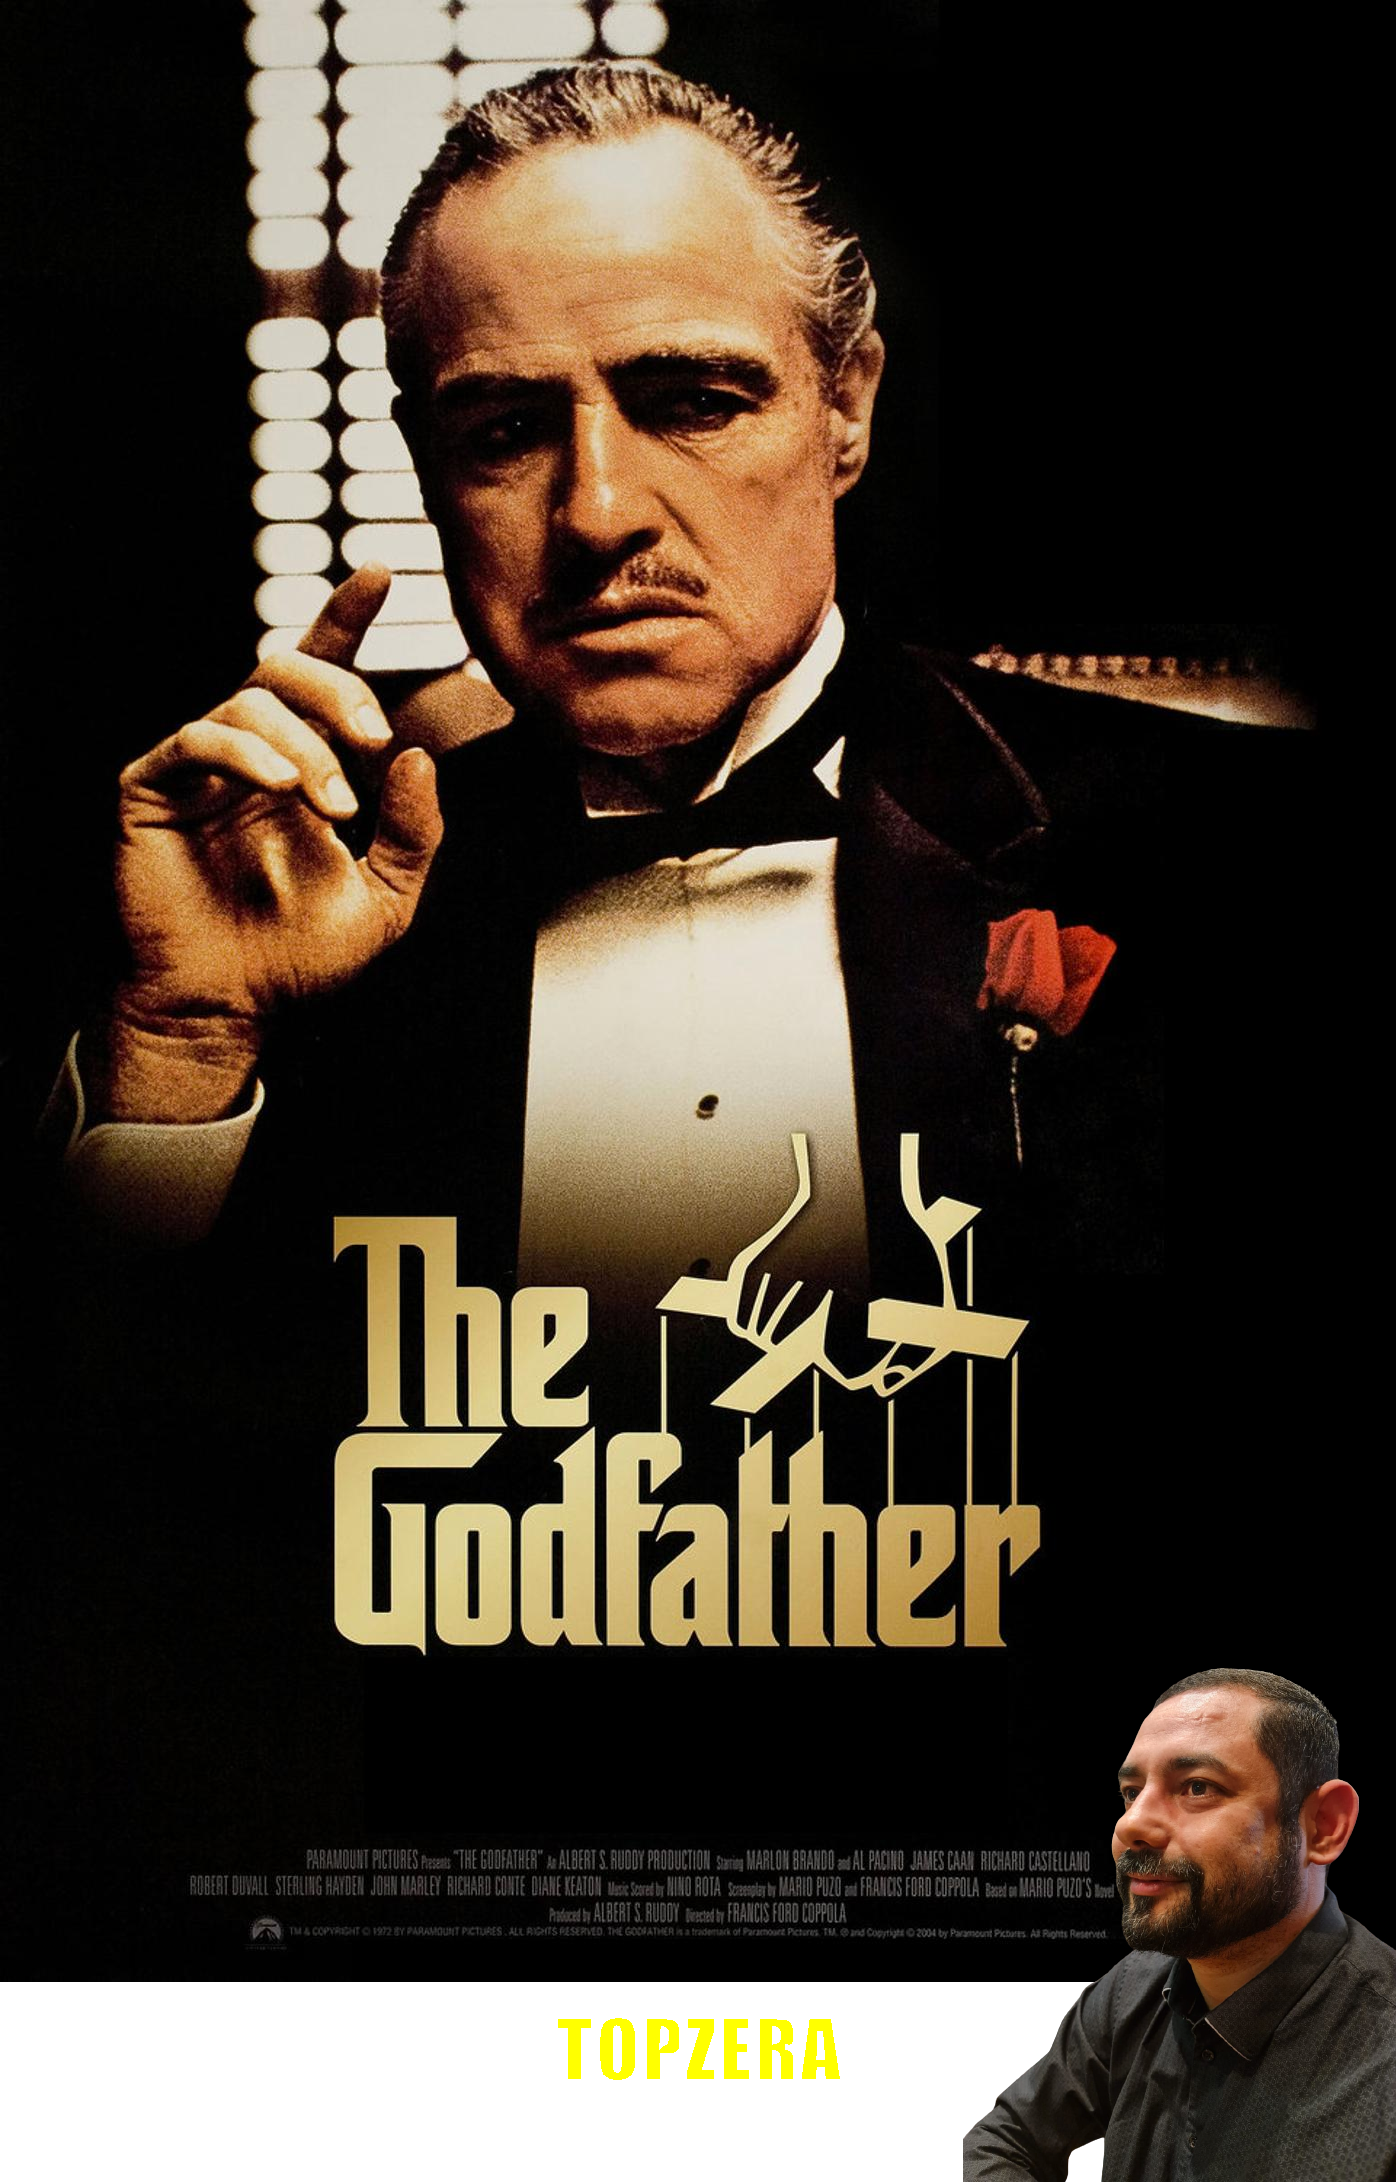
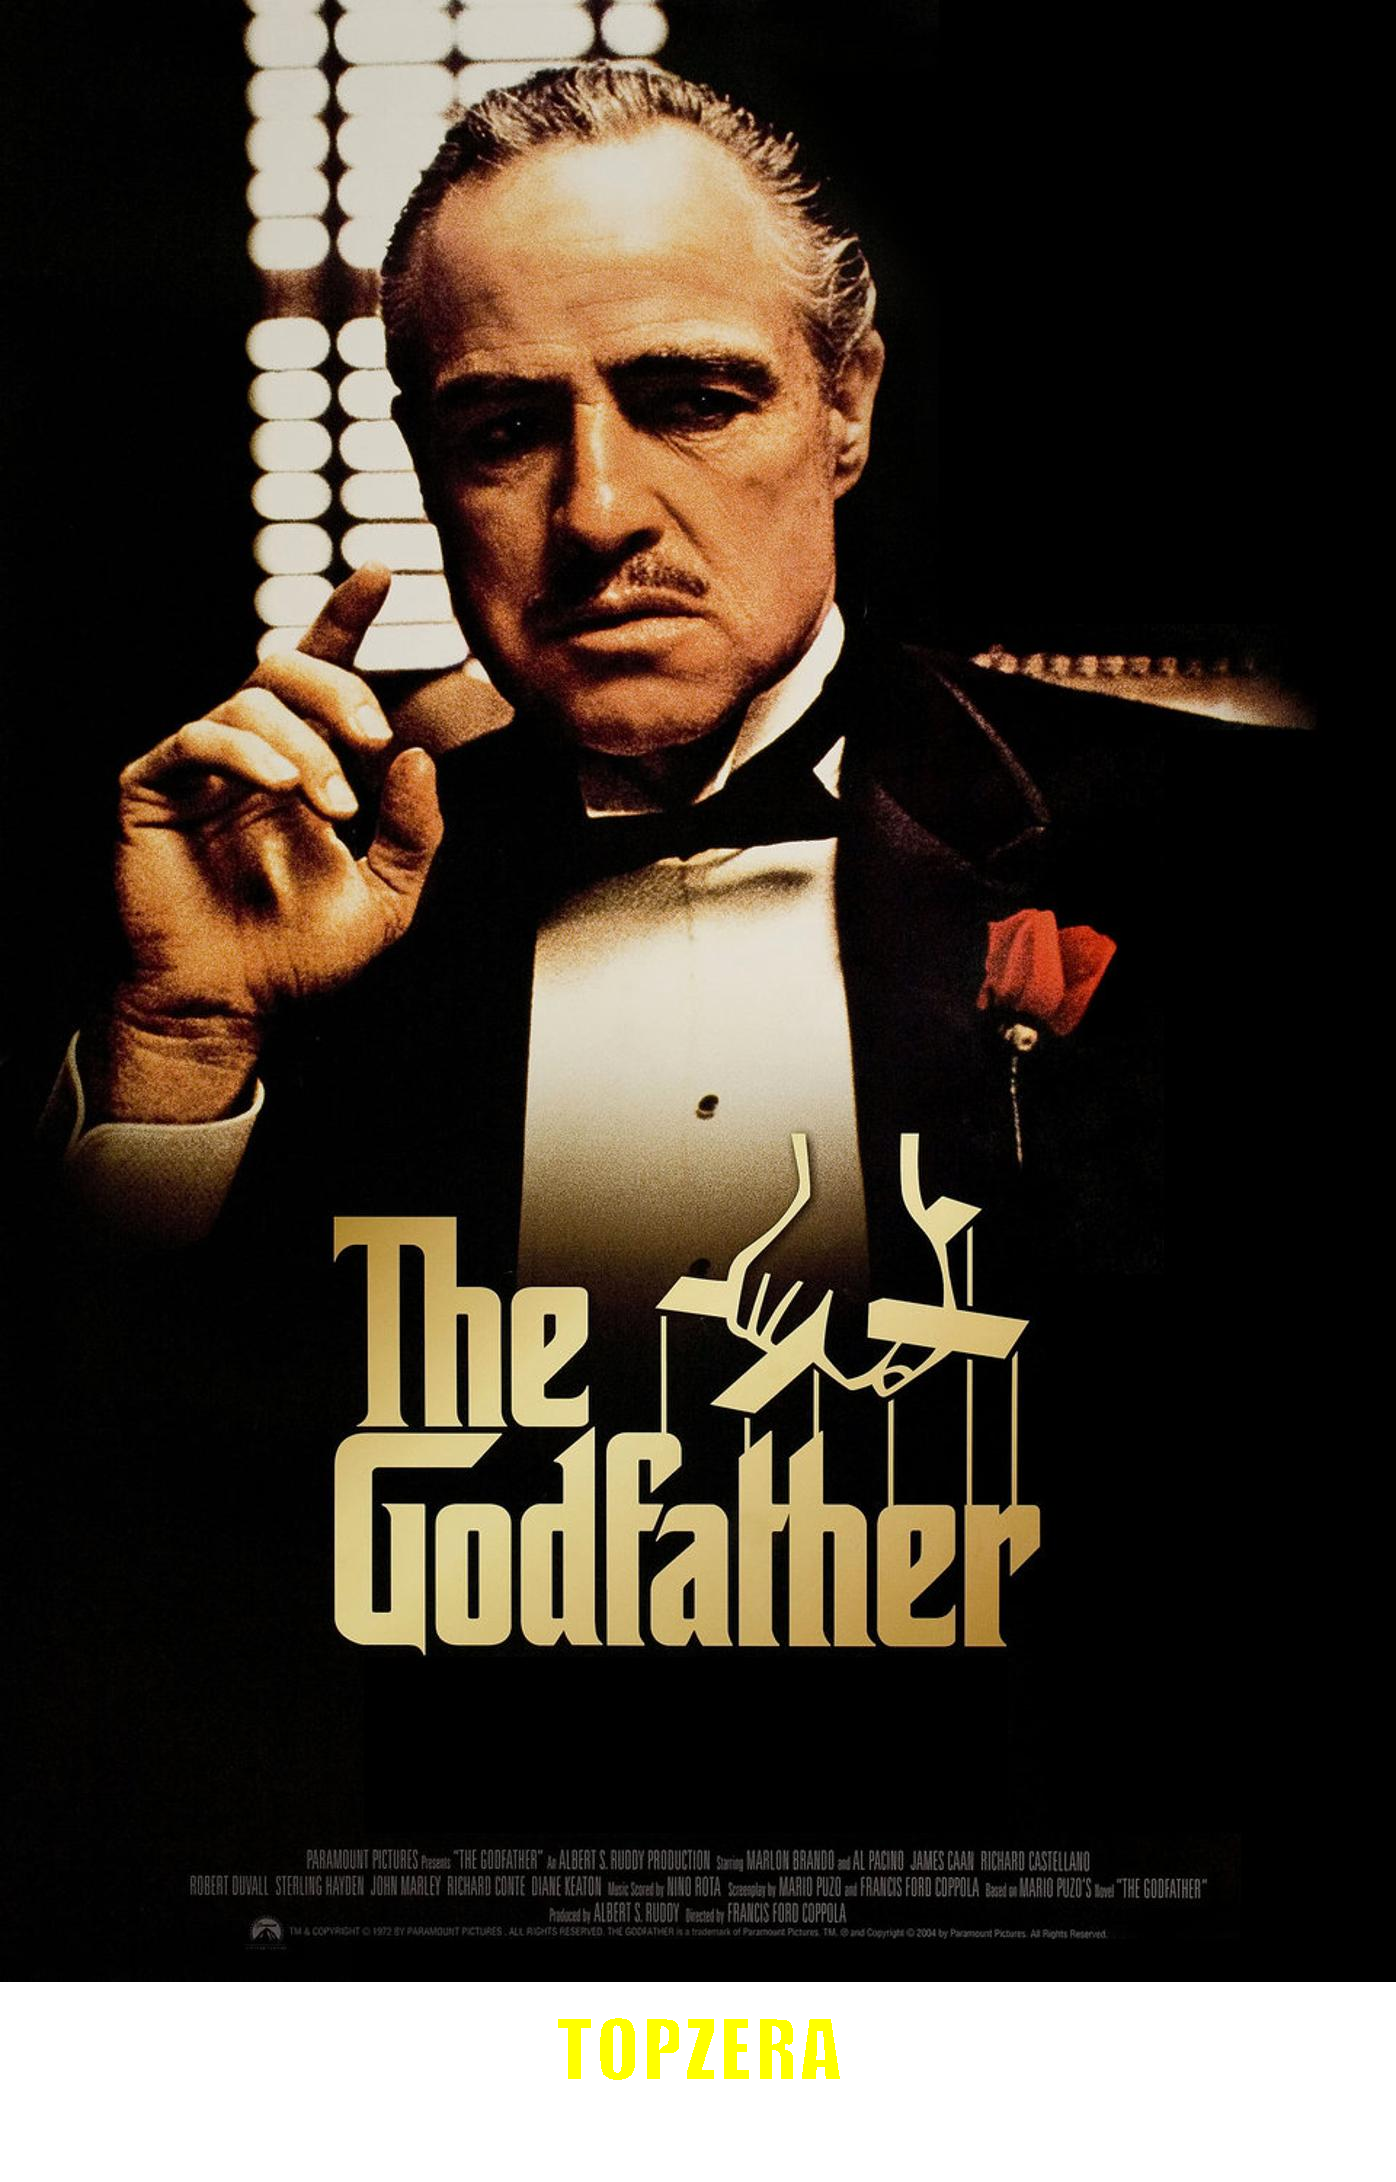
AULA 03 - LIGANDO AS PONTAS, REFATORAÇÃO E ORIENTAÇÃO A OBJETOS

Changed region(s): [[0.6777, 0.7479, 1.0, 1.0]]

diff --git a/Alura-Stickers/src/App.java b/Alura-Stickers/src/App.java
@@ -1,59 +1,45 @@
 import java.io.File;
 import java.io.FileInputStream;
 import java.io.InputStream;
-import java.net.URI;
 import java.net.URL;
-import java.net.http.HttpClient;
-import java.net.http.HttpRequest;
-import java.net.http.HttpResponse;
-import java.net.http.HttpResponse.BodyHandlers;
 import java.util.List;
-import java.util.Map;
 
 public class App {
     public static void main(String[] args) throws Exception {
-        // Fazer uma conexão HTTP e buscar os top 250 filmes
-        String url = "https://raw.githubusercontent.com/alura-cursos/imersao-java-2-api/main/TopMovies.json";
-        URI endereco = URI.create(url);
-        HttpClient client = HttpClient.newHttpClient();
-        HttpRequest request = HttpRequest.newBuilder(endereco).GET().build();
-        HttpResponse<String> response = client.send(request, BodyHandlers.ofString());
-        String body = response.body();
 
-        // Extrair só os dados relevantes(titulo, imagem, clssificação)
-        var parser = new JsonParser();
-        List<Map<String, String>> listaDeFilmes = parser.parse(body);
+        API api = API.IMDB;
+        String url = api.getUrl();
+        ExtratorConteudo extrator = api.getExtrator();
+
+        var http = new ClienteHttp();
+        String json = http.buscaDados(url);
 
         // Exibir e manipular os dados
+        List<Conteudo> conteudos = extrator.extraiConteudos(json);
+
         var diretorio = new File("imagens/");
         diretorio.mkdir();
+        InputStream imagemJards;
+        boolean usarImagem = false;
 
-        for (Map<String, String> filme : listaDeFilmes) {
+        for (Conteudo conteudo : conteudos) {
+            String textoFigurinha = "TOPZERA";
 
-            String urlImagem = filme.get("image");
-            String titulo = filme.get("title");
-            double classificacao = Double.parseDouble(filme.get("imDbRating"));
-
-            String textoFigurinha;
-            InputStream imagemJards;
-            if (classificacao >= 8.0) {
-                textoFigurinha = "TOPZERA";
-                imagemJards = new FileInputStream(new File("imagens/jards.png"));
-            } else {
-                textoFigurinha = "MEIA BOCA";
-                imagemJards = null;
-            }
-
-            InputStream inputStream = new URL(urlImagem).openStream();
-            String nomeArquivo = titulo + ".png";
+            InputStream inputStream = new URL(conteudo.urlImagem()).openStream();
+            String nomeArquivo = conteudo.titulo() + ".png";
 
             var gerador = new GeradorDeFigurinhas();
-            gerador.cria(inputStream, nomeArquivo, textoFigurinha, imagemJards);
 
-            System.out.println(titulo);
+            if (usarImagem) {
+                imagemJards = new FileInputStream(new File("imagens/jards.png"));
+                gerador.cria(inputStream, nomeArquivo, textoFigurinha, imagemJards);
+            } else {
+                gerador.cria(inputStream, nomeArquivo, textoFigurinha);
+            }
+
+            System.out.println(conteudo.titulo());
 
             System.out.println();
         }
     }
 }
-// U+2B50

diff --git a/Alura-Stickers/src/GeradorDeFigurinhas.java b/Alura-Stickers/src/GeradorDeFigurinhas.java
@@ -16,7 +16,8 @@ import javax.imageio.ImageIO;
 
 public class GeradorDeFigurinhas {
 
-    public void cria(InputStream inputStream, String nomeArquivo, String texto, InputStream inputStreamSobreposicao) throws Exception {
+    public void cria(InputStream inputStream, String nomeArquivo, String texto, InputStream inputStreamSobreposicao)
+            throws Exception {
 
         // Leitura da imagem
         // InputStream inputStream = new FileInputStream(new File("imagens/Filme.jpg"));
@@ -39,6 +40,52 @@ public class GeradorDeFigurinhas {
         int posicaoImagemSobreposicaoX = imagemOriginal.getWidth() - imagemSobreposicao.getWidth();
         int posicaoImagemSobreposicaoY = novaAltura - imagemSobreposicao.getHeight();
         graphics.drawImage(imagemSobreposicao, posicaoImagemSobreposicaoX, posicaoImagemSobreposicaoY, null);
+
+        // Configurar fonte
+        var fonte = new Font("Impact", Font.BOLD, 80);
+        graphics.setColor(Color.YELLOW);
+        graphics.setFont(fonte);
+
+        // Escrever uma frase na nova imagem
+        FontMetrics fontMetrics = graphics.getFontMetrics();
+        Rectangle2D retangulo = fontMetrics.getStringBounds(texto, graphics);
+        int larguraTexto = (int) retangulo.getWidth();
+        int posicaoTextoX = (largura - larguraTexto) / 2;
+        int posicaoTextoY = novaAltura - 100;
+        graphics.drawString(texto, posicaoTextoX, posicaoTextoY);
+
+        FontRenderContext fontRenderContext = graphics.getFontRenderContext();
+        TextLayout textLayout = new TextLayout(texto, fonte, fontRenderContext);
+
+        Shape outline = textLayout.getOutline(null);
+        AffineTransform transform = graphics.getTransform();
+        transform.translate(posicaoTextoX, posicaoTextoY);
+        graphics.setTransform(transform);
+
+        var outlineStroke = new BasicStroke(largura * 0.004f);
+        graphics.setStroke(outlineStroke);
+
+        graphics.setColor(Color.WHITE);
+        graphics.draw(outline);
+        graphics.setClip(outline);
+
+        // Escrever a nova imagem em um arquivo
+        ImageIO.write(novaImagem, "png", new File("imagens/" + nomeArquivo));
+    }
+
+    public void cria(InputStream inputStream, String nomeArquivo, String texto) throws Exception {
+        BufferedImage imagemOriginal = ImageIO.read(inputStream);
+
+        // Cria nova imagem em memória com transparência e com o tamanho novo
+        int largura = imagemOriginal.getWidth();
+        int altura = imagemOriginal.getHeight();
+        int novaAltura = altura + 200;
+
+        BufferedImage novaImagem = new BufferedImage(largura, novaAltura, BufferedImage.TRANSLUCENT);
+
+        // copiar a imagem original para nova imagem (em memmória)
+        Graphics2D graphics = (Graphics2D) novaImagem.getGraphics();
+        graphics.drawImage(imagemOriginal, 0, 0, null);
 
         // Configurar fonte
         var fonte = new Font("Impact", Font.BOLD, 80);

diff --git a/Alura-Stickers/src/ClienteHttp.java b/Alura-Stickers/src/ClienteHttp.java
@@ -1,0 +1,22 @@
+import java.io.IOException;
+import java.net.URI;
+import java.net.http.HttpClient;
+import java.net.http.HttpRequest;
+import java.net.http.HttpResponse;
+import java.net.http.HttpResponse.BodyHandlers;
+
+public class ClienteHttp {
+
+    public String buscaDados(String url) {
+        try {
+            URI endereco = URI.create(url);
+            HttpClient client = HttpClient.newHttpClient();
+            HttpRequest request = HttpRequest.newBuilder(endereco).GET().build();
+            HttpResponse<String> response;
+            response = client.send(request, BodyHandlers.ofString());
+            return response.body();
+        } catch (IOException | InterruptedException ex) {
+            throw new ClienteHttpExeption("Erro ao  consultar a URL: ", ex);
+        }
+    }
+}

diff --git a/Alura-Stickers/src/API.java b/Alura-Stickers/src/API.java
@@ -1,0 +1,23 @@
+public enum API {
+
+    IMDB("https://raw.githubusercontent.com/alura-cursos/imersao-java-2-api/main/TopMovies.json",
+            new ExtratorConteudoIMDB()),
+    NASA("https://api.nasa.gov/planetary/apod?api_key=s3hRXJdXFMYvyWzc3i2mC7AdTrG2yyIgrUDGWPnO&start_date=2023-03-2&end_date=2023-03-29",
+            new ExtratorConteudoNasa());
+
+    private String url;
+    private ExtratorConteudo extrator;
+
+    API(String url, ExtratorConteudo extrator) {
+        this.url = url;
+        this.extrator = extrator;
+    }
+
+    public String getUrl() {
+        return this.url;
+    }
+
+    public ExtratorConteudo getExtrator() {
+        return this.extrator;
+    }
+}

diff --git a/Alura-Stickers/src/ExtratorConteudoIMDB.java b/Alura-Stickers/src/ExtratorConteudoIMDB.java
@@ -1,0 +1,17 @@
+import java.util.List;
+import java.util.Map;
+
+public class ExtratorConteudoIMDB implements ExtratorConteudo {
+
+    public List<Conteudo> extraiConteudos(String json) {
+        var parser = new JsonParser();
+        List<Map<String, String>> listaDeAtributos = parser.parse(json);
+
+        return listaDeAtributos.stream()
+                .map(atributos -> new Conteudo(atributos.get("title"),
+                        atributos.get("image")
+                                .replaceAll("(@+)(.*).jpg$", "$1.jpg")))
+                .toList();
+
+    }
+}

diff --git a/Alura-Stickers/src/ExtratorConteudoNasa.java b/Alura-Stickers/src/ExtratorConteudoNasa.java
@@ -1,0 +1,14 @@
+import java.util.List;
+import java.util.Map;
+
+public class ExtratorConteudoNasa implements ExtratorConteudo {
+
+    public List<Conteudo> extraiConteudos(String json) {
+        var parser = new JsonParser();
+        List<Map<String, String>> listaDeAtributos = parser.parse(json);
+
+        return listaDeAtributos.stream().map(atributos -> new Conteudo(atributos.get("title"), atributos.get("url")))
+                .toList();
+
+    }
+}

diff --git a/Alura-Stickers/src/ClienteHttpExeption.java b/Alura-Stickers/src/ClienteHttpExeption.java
@@ -1,0 +1,8 @@
+
+public class ClienteHttpExeption extends RuntimeException{
+
+    public ClienteHttpExeption(String menssagem, Exception e) {
+        super(menssagem, e);
+    }
+
+}

diff --git a/Alura-Stickers/src/ExtratorConteudo.java b/Alura-Stickers/src/ExtratorConteudo.java
@@ -1,0 +1,6 @@
+import java.util.List;
+
+public interface ExtratorConteudo {
+
+    List<Conteudo> extraiConteudos(String json);
+}

diff --git a/Alura-Stickers/src/Conteudo.java b/Alura-Stickers/src/Conteudo.java
@@ -1,0 +1,3 @@
+
+public record Conteudo(String titulo, String urlImagem) {
+}
